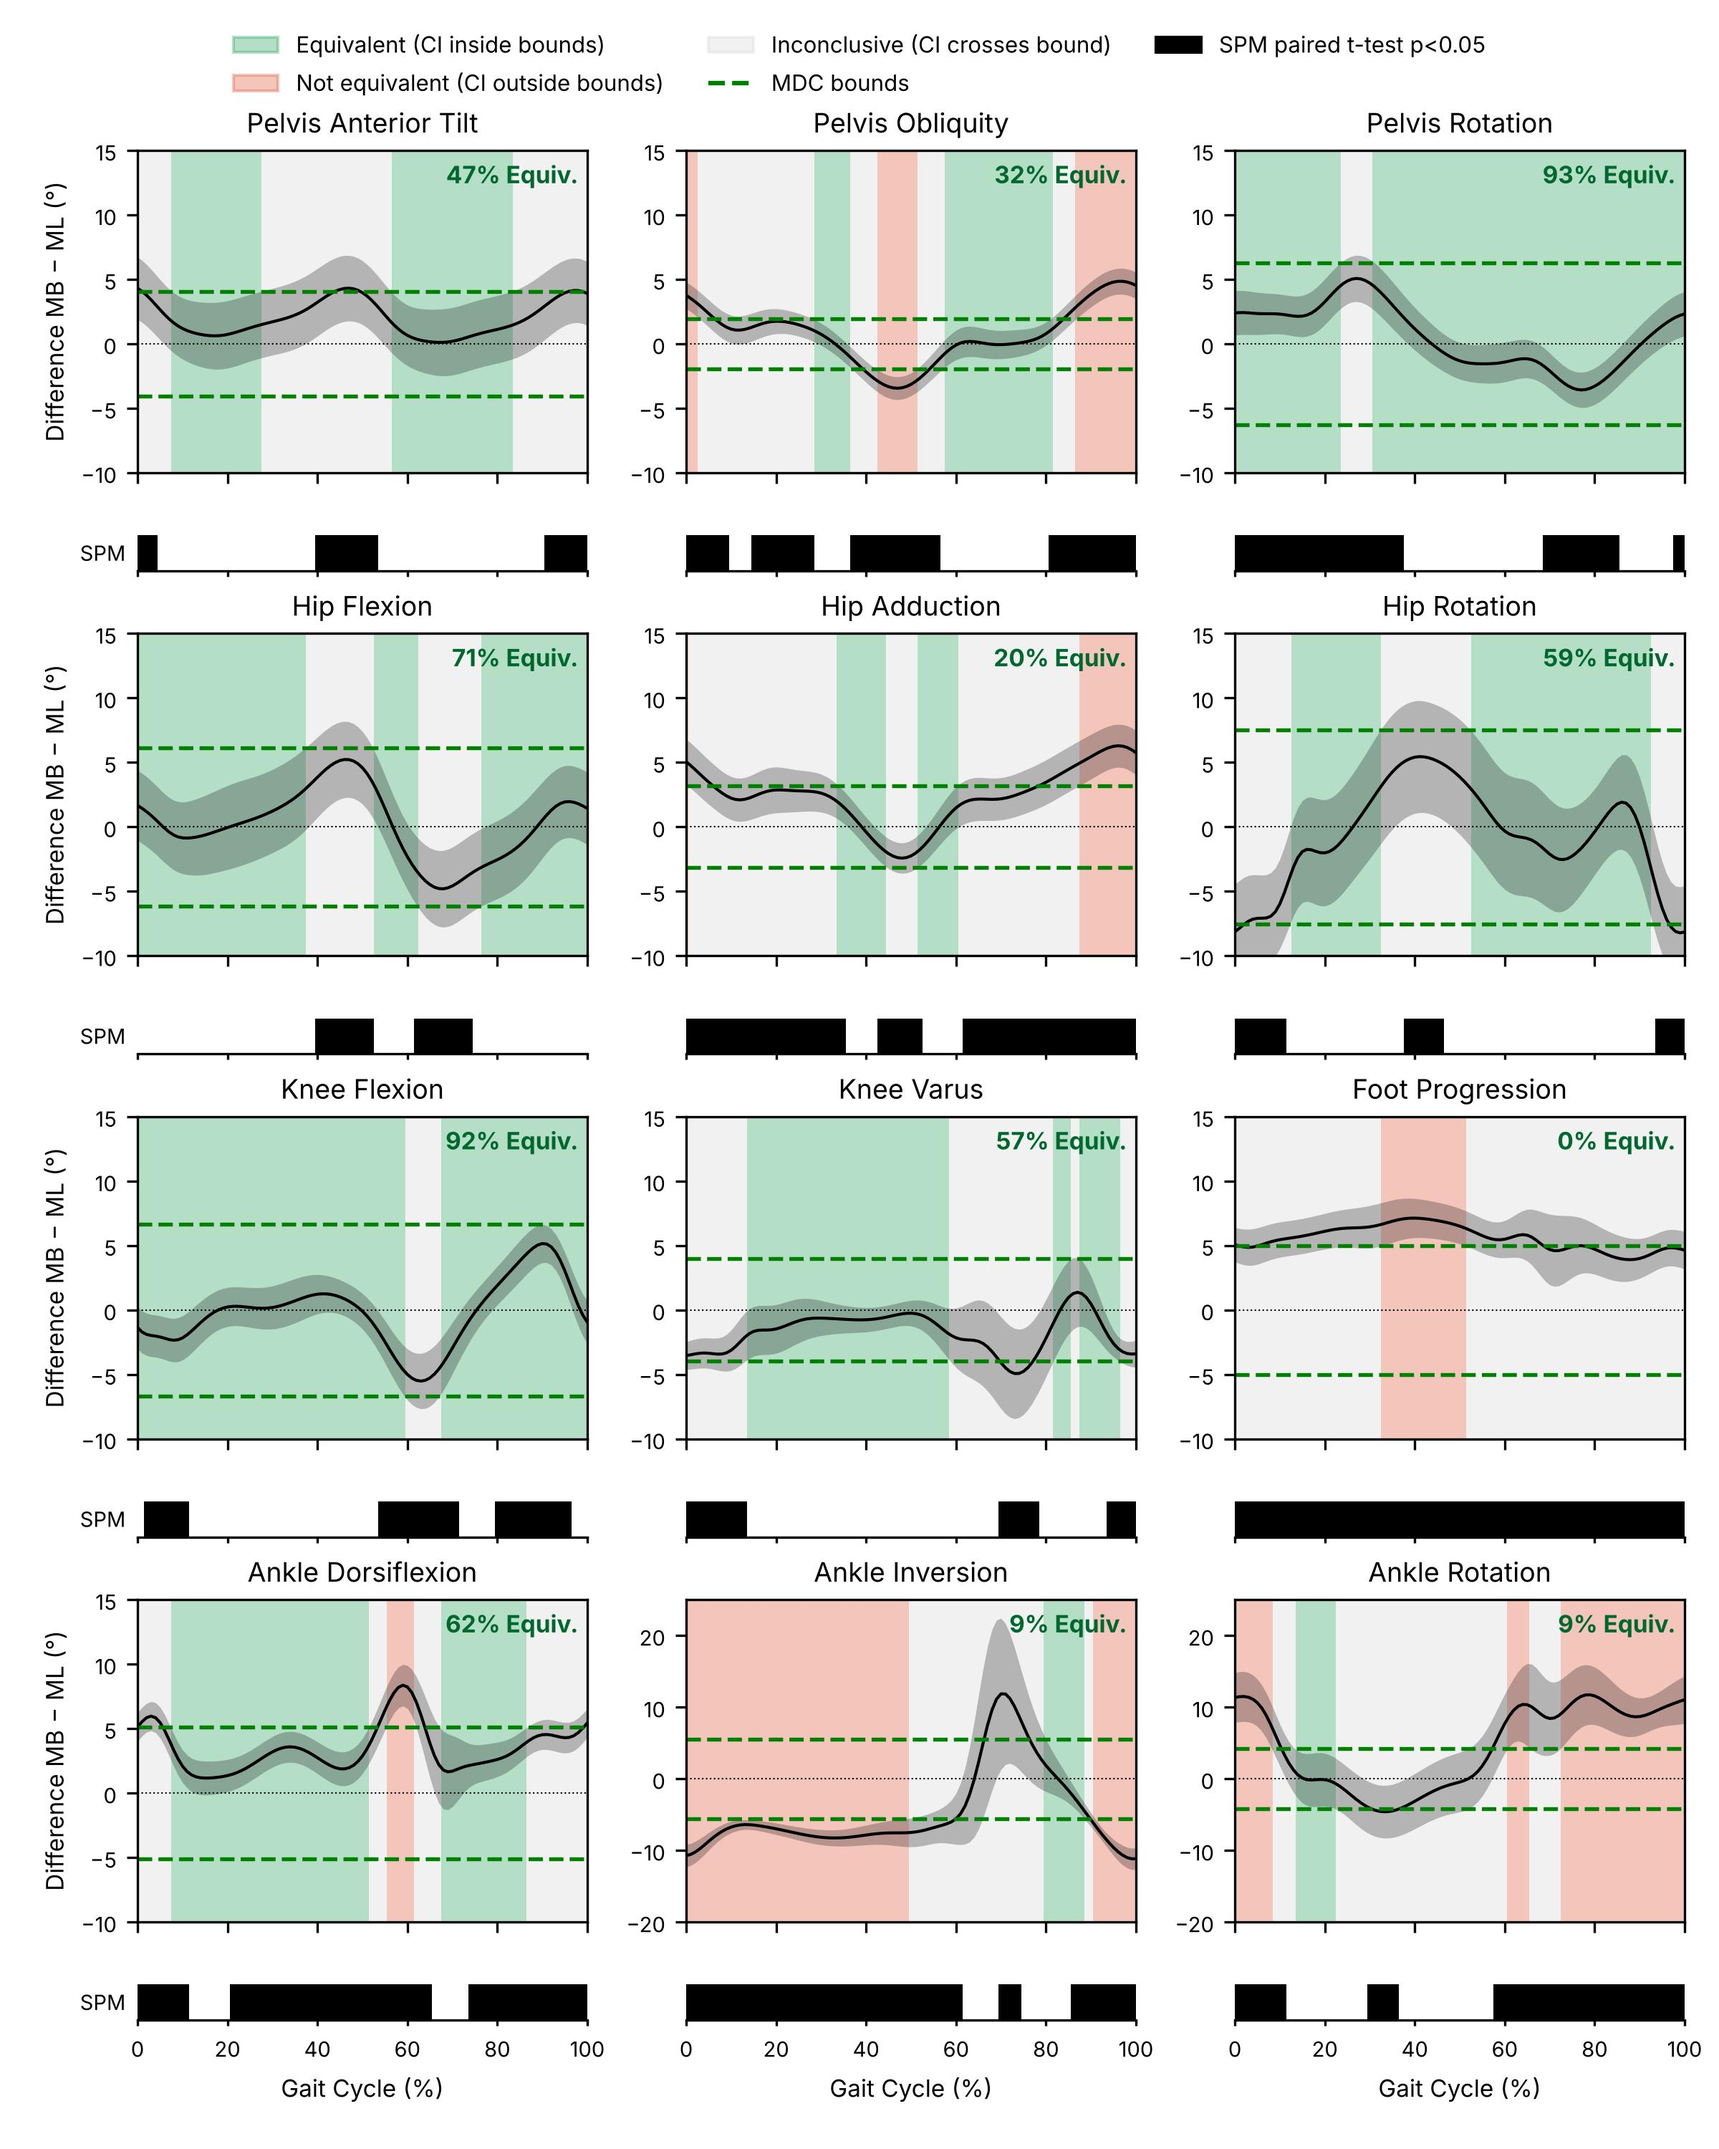
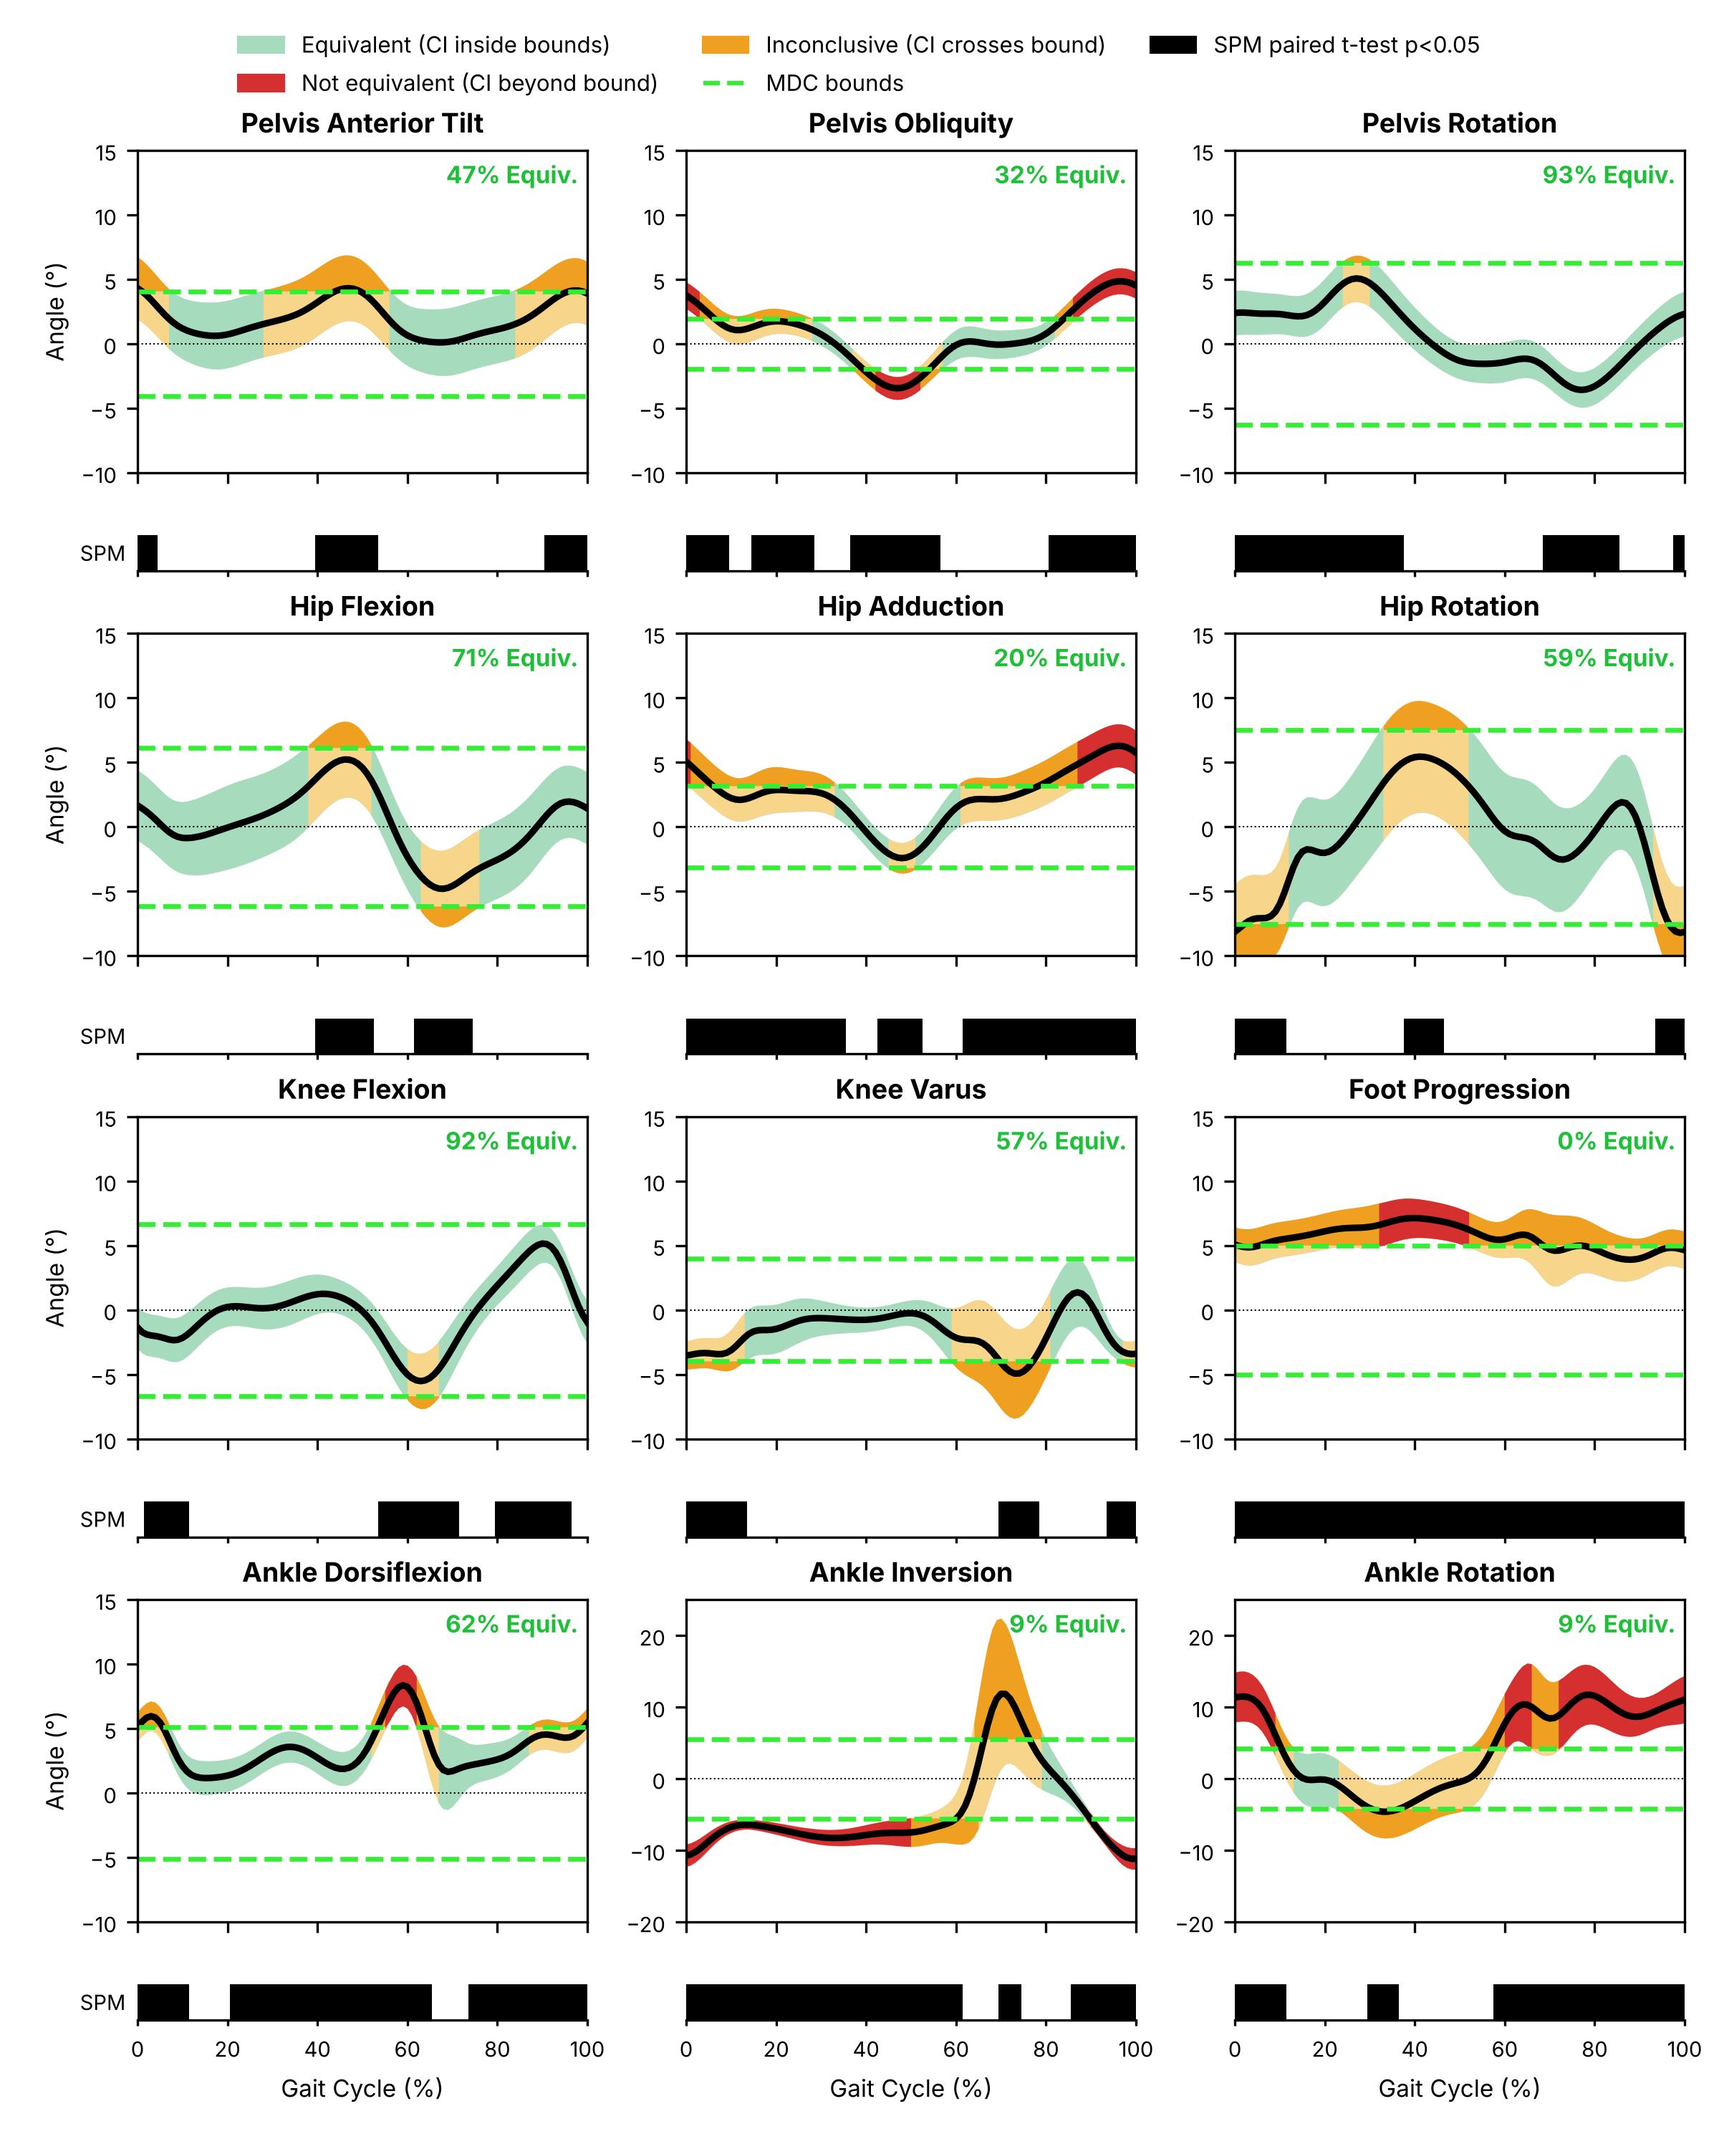
Restyle classified equivalence figure to match conceptual figure
Claude-Session: https://claude.ai/code/session_015w9XBhFVNXRPjuHceetm3n

diff --git a/plot_equivalence_mdc_classified.py b/plot_equivalence_mdc_classified.py
@@ -29,7 +29,10 @@ bounds = [float(np.squeeze(m['ci_data'][j, 1])) for j in range(12)]  # foot prog
 ylim_max = [10] * 10 + [20, 20]
 ylim_min = [-v for v in ylim_max]
 
-C_EQ, C_NE, C_INC = '#2ca25f', '#de5a3c', '#d9d9d9'
+# CI band colours (light = within-CI band, dark = part of the CI beyond a bound)
+C_EQ, C_NE, C_INC = '#a6dcbd', '#f08f82', '#f7d58b'
+C_NE_D, C_INC_D = '#d62f2f', '#f0a020'
+C_BASE = '#d9d9d9'
 x = np.arange(101)
 
 def runs(mask):
@@ -64,24 +67,29 @@ for jj in range(12):
     inc = ~eq & ~ne
     pct_eq = 100 * eq.mean()
 
-    # classification shading (each node spans +/-0.5)
-    for mask, col in ((eq, C_EQ), (ne, C_NE), (inc, C_INC)):
-        for s, e in runs(mask):
-            ax.axvspan(s - 0.5, e + 0.5, color=col, alpha=0.35, lw=0)
-
-    ax.fill_between(x, lo, hi, color='k', alpha=0.25, lw=0)
-    ax.plot(x, md, 'k', lw=1)
+    # CI band coloured by outcome (conceptual-figure style); masks are dilated by one
+    # node so neighbouring segments join without gaps (colours are opaque).
+    def grow(mask):
+        return mask | np.r_[mask[1:], False] | np.r_[False, mask[:-1]]
+    ax.fill_between(x, lo, hi, color=C_BASE, lw=0)
+    for mask, col in ((inc, C_INC), (eq, C_EQ), (ne, C_NE)):
+        ax.fill_between(x, lo, hi, where=grow(mask), color=col, lw=0)
+    # darker patches where the CI extends beyond a bound
+    for mask, col in ((inc, C_INC_D), (ne, C_NE_D)):
+        ax.fill_between(x, np.maximum(lo, b), hi, where=grow(mask) & (hi > b), color=col, lw=0)
+        ax.fill_between(x, lo, np.minimum(hi, -b), where=grow(mask) & (lo < -b), color=col, lw=0)
+    ax.plot(x, md, 'k', lw=2.2)
     ax.axhline(0, color='k', lw=0.5, ls=':')
-    ax.axhline(b, color='g', ls='--', lw=1.3)
-    ax.axhline(-b, color='g', ls='--', lw=1.3)
+    ax.axhline(b, color='#33ee33', ls='--', lw=1.6)
+    ax.axhline(-b, color='#33ee33', ls='--', lw=1.6)
     ax.set_xlim(0, 100)
     ax.set_ylim(ylim_min[jj], ylim_max[jj] + 5)
-    ax.set_title(titles[jj], fontsize=9)
+    ax.set_title(titles[jj], fontsize=9, fontweight='bold')
     ax.text(0.98, 0.97, f'{round(pct_eq)}% Equiv.', transform=ax.transAxes,
-            ha='right', va='top', fontsize=8, color='#00682f', fontweight='bold')
+            ha='right', va='top', fontsize=8, color='#1fbf3a', fontweight='bold')
     ax.tick_params(labelsize=7, labelbottom=False)
     if c == 0:
-        ax.set_ylabel('Difference MB − ML (°)', fontsize=8)
+        ax.set_ylabel('Angle (°)', fontsize=8)
 
     # SPM{t} paired t-test, markerbased vs markerless
     t = spm1d.stats.ttest_paired(yA, yB).inference(ALPHA_T, two_tailed=True, interp=True)
@@ -102,10 +110,10 @@ for jj in range(12):
 
     rows.append((titles[jj], b, pct_eq, 100 * ne.mean(), 100 * inc.mean(), 100 * sig.mean()))
 
-handles = [Patch(color=C_EQ, alpha=0.35, label='Equivalent (CI inside bounds)'),
-           Patch(color=C_NE, alpha=0.35, label='Not equivalent (CI outside bounds)'),
-           Patch(color=C_INC, alpha=0.35, label='Inconclusive (CI crosses bound)'),
-           Line2D([0], [0], color='g', ls='--', label='MDC bounds'),
+handles = [Patch(color=C_EQ, label='Equivalent (CI inside bounds)'),
+           Patch(color=C_NE_D, label='Not equivalent (CI beyond bound)'),
+           Patch(color=C_INC_D, label='Inconclusive (CI crosses bound)'),
+           Line2D([0], [0], color='#33ee33', ls='--', label='MDC bounds'),
            Patch(color='k', label='SPM paired t-test p<0.05')]
 fig.legend(handles=handles, loc='upper center', ncol=3, fontsize=7.5, frameon=False,
            bbox_to_anchor=(0.5, 0.995))
